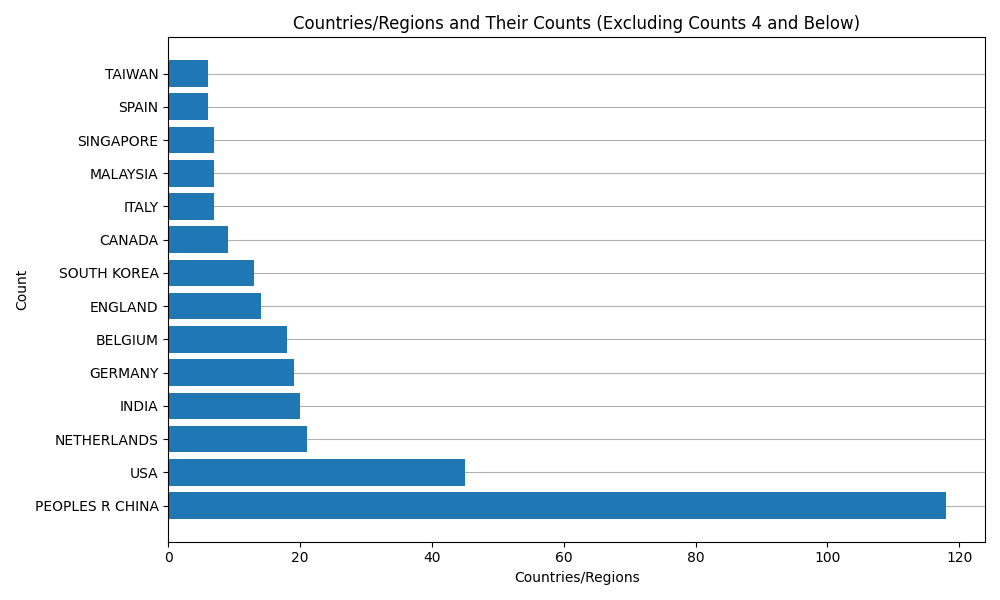
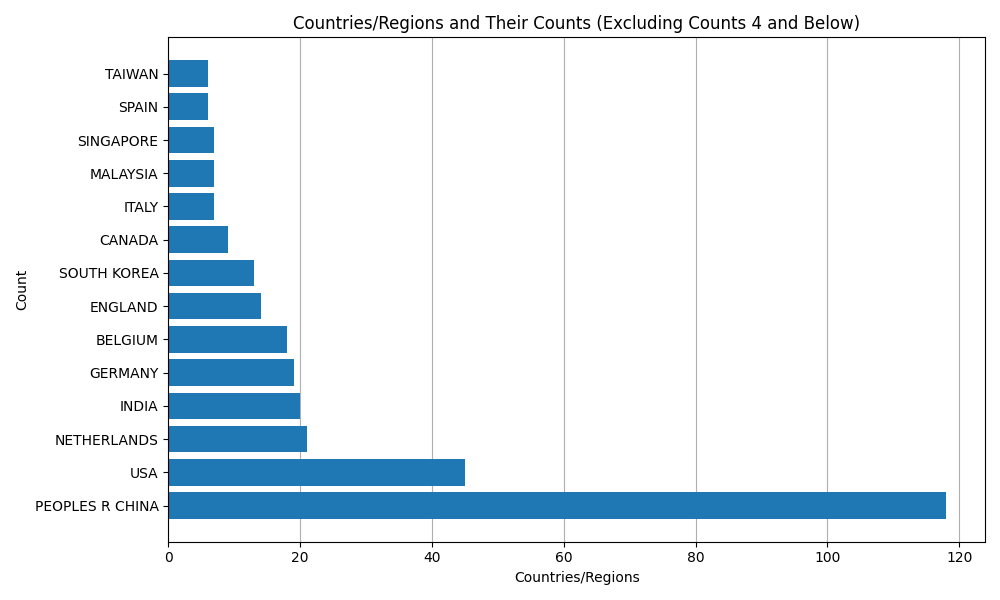
graph fix

diff --git a/graph_new.py b/graph_new.py
@@ -98,6 +98,6 @@ plt.xlabel('Countries/Regions')
 plt.ylabel('Count')
 plt.tight_layout()
 ax = plt.gca()
-ax.grid(which='major', axis='y', linestyle='-')
+ax.grid(which='major', axis='x', linestyle='-')
 ax.set_axisbelow(True)
 plt.savefig(countries_plot_path)
